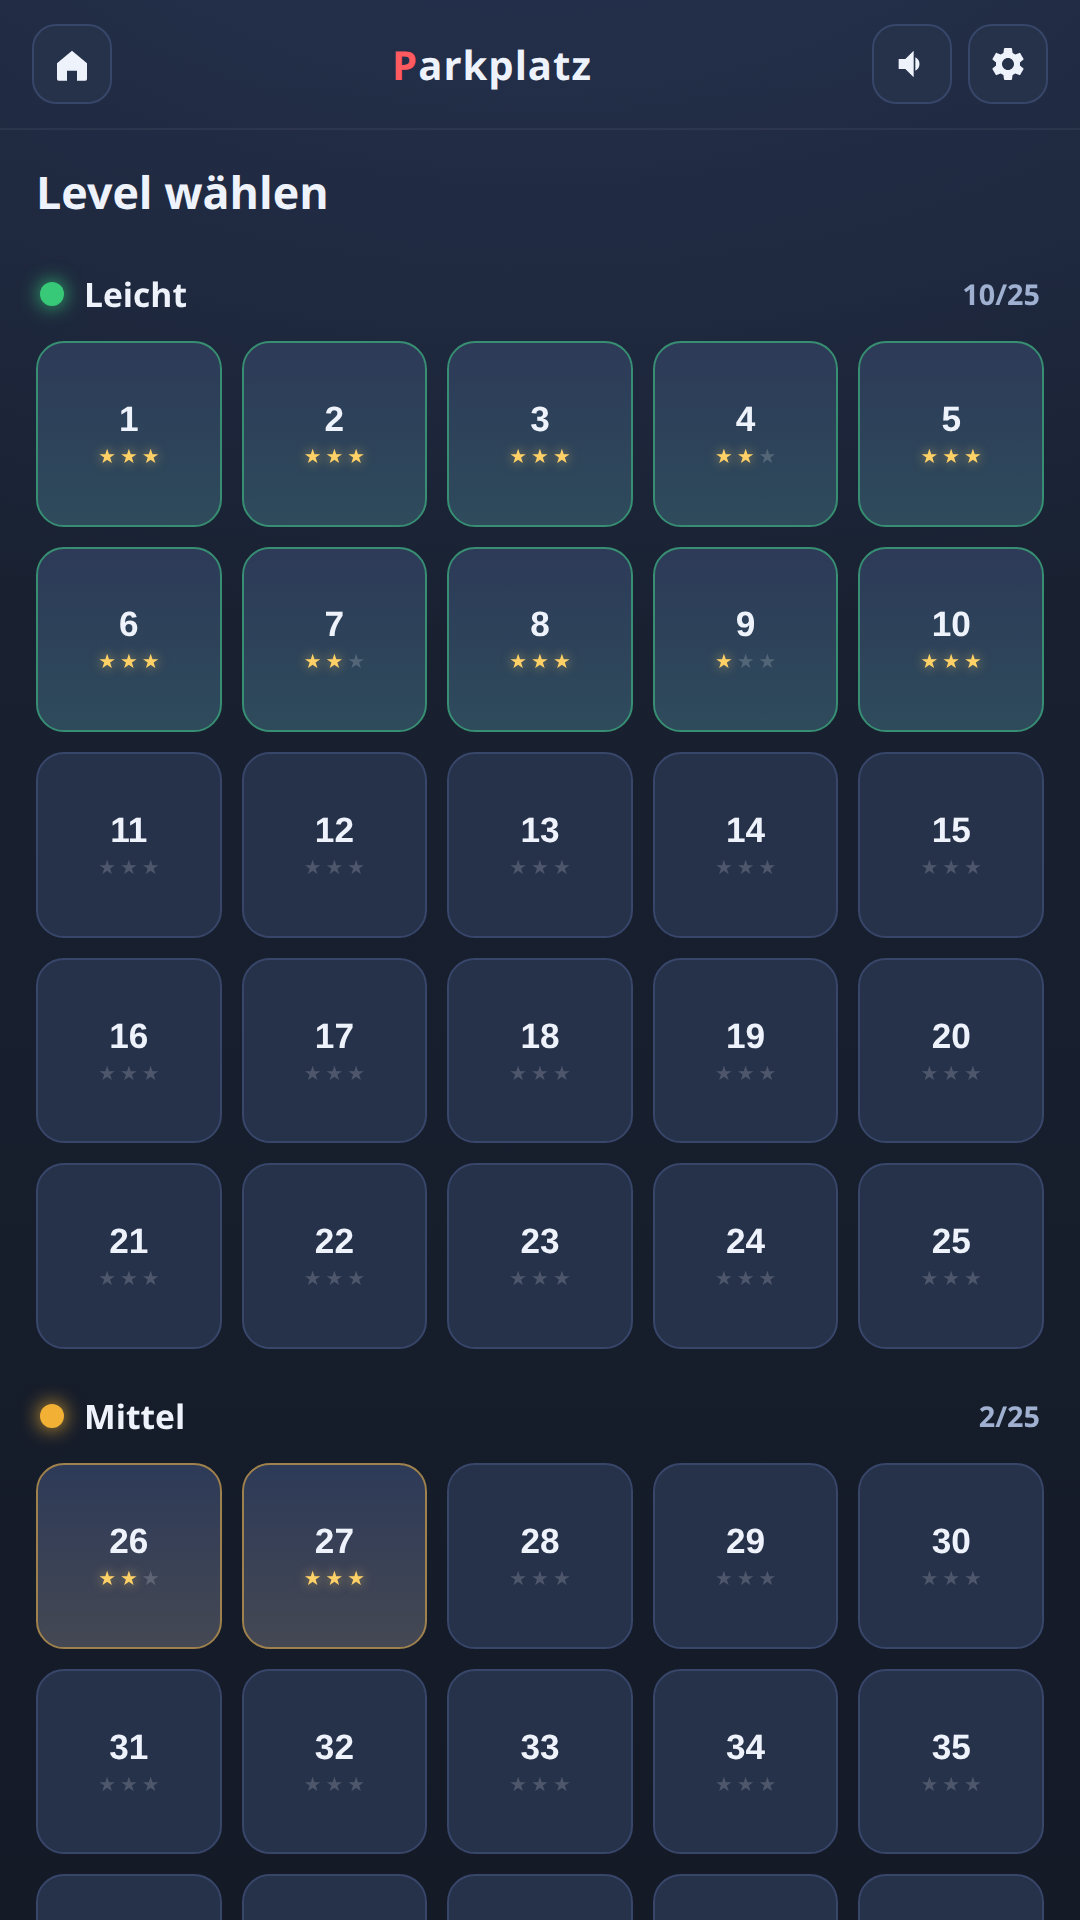
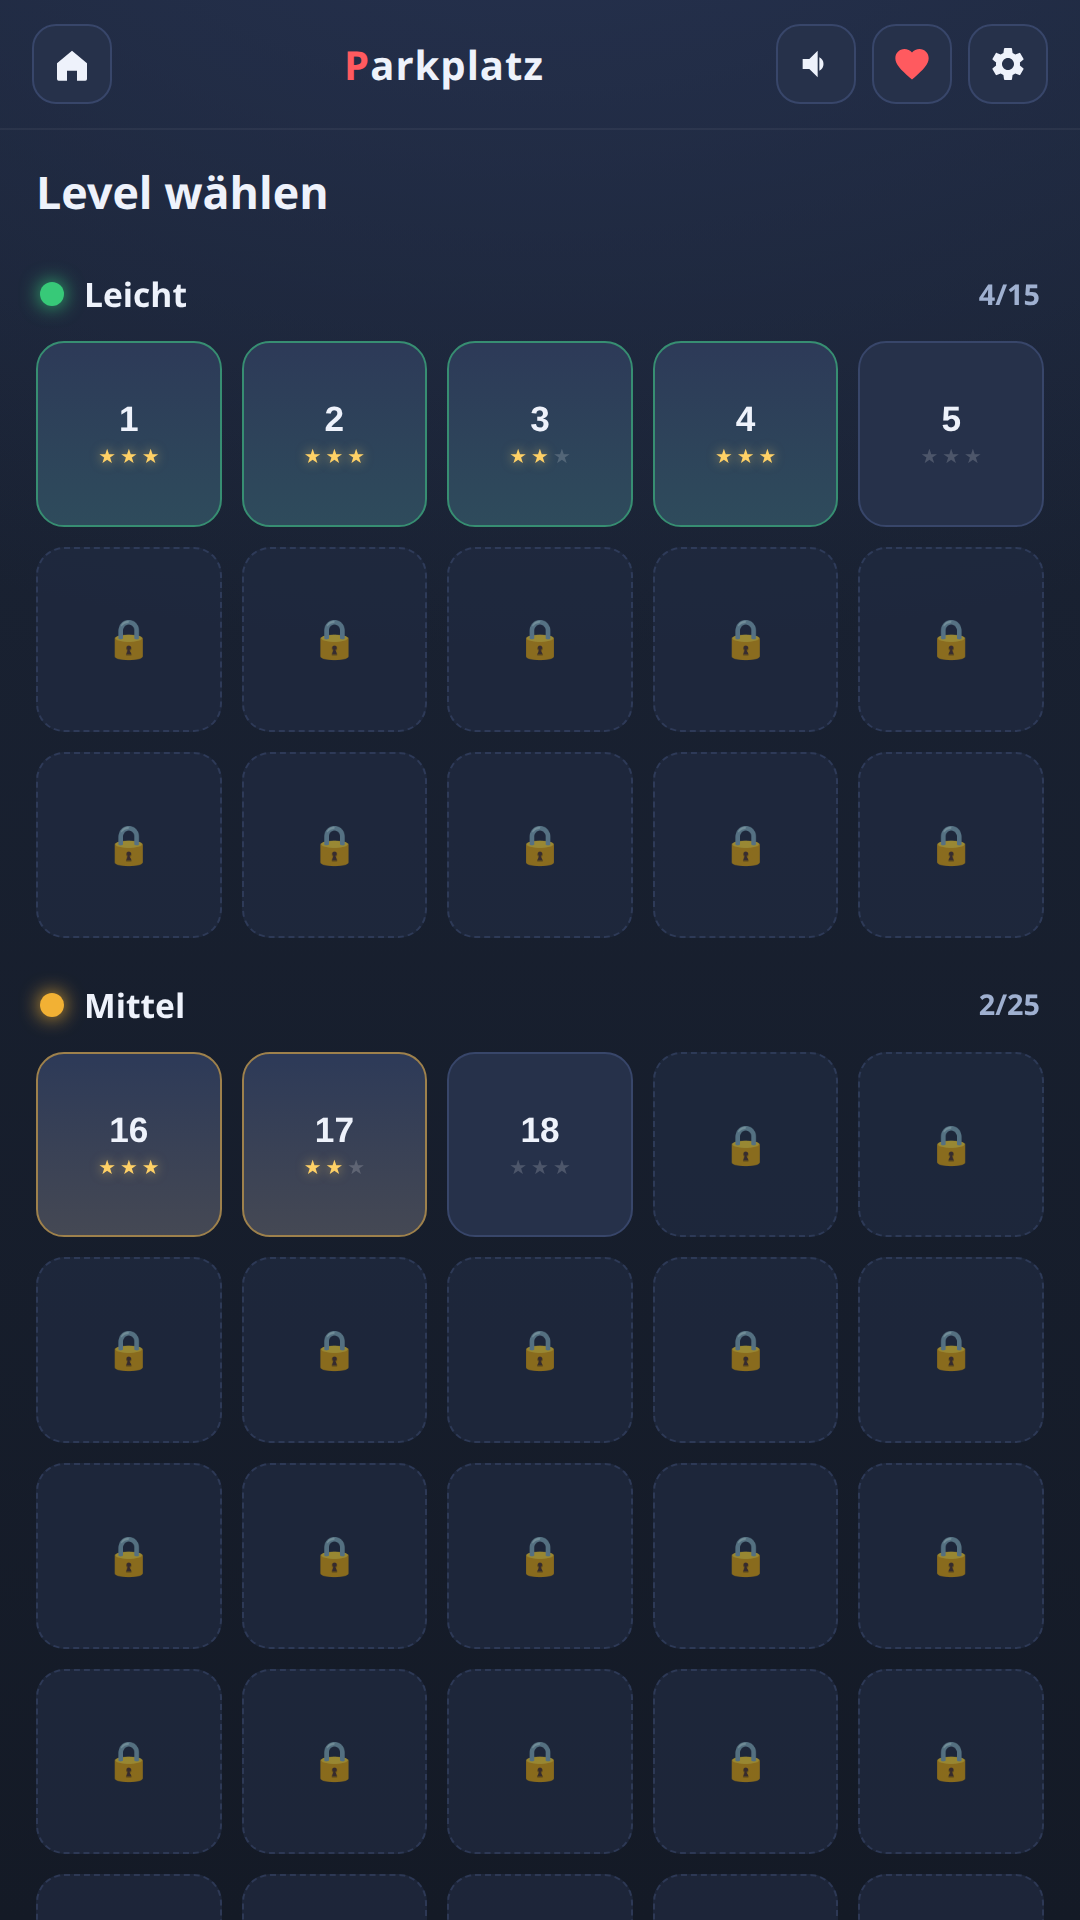
Store: reflect 5 tiers (Extreme) in listings + level-select screenshots

diff --git a/store/listing-de.md b/store/listing-de.md
@@ -13,13 +13,13 @@ von „Rush Hour": Der Parkplatz ist zugeparkt und dein rotes Auto muss raus!
 Verschiebe Autos, Busse, LKWs und Motorräder geschickt zur Seite, bis der Weg
 zur Ausfahrt frei ist.
 
-100 handgeprüfte Level in vier Schwierigkeitsstufen – von leicht bis sehr
+100 handgeprüfte Level in fünf Schwierigkeitsstufen – von leicht bis extrem
 schwer, aber keines davon langweilig. Für jedes Level ist die minimale Zugzahl
 bekannt: Schaffst du es mit den wenigsten Zügen, gibt es drei Sterne!
 
 ★ FUNKTIONEN
 • 100 einzigartige, garantiert lösbare Rätsel
-• Vier Schwierigkeitsstufen mit sanft steigender Herausforderung
+• Fünf Schwierigkeitsstufen (bis „Extrem“) mit sanft steigender Herausforderung
 • 3-Sterne-Bewertung – hol dir das perfekte Ergebnis
 • Level-Editor: Baue eigene Rätsel mit Live-Lösbarkeitsprüfung
 • Tägliches Rätsel – jeden Tag ein neues, für alle gleich

diff --git a/store/listing-en.md b/store/listing-en.md
@@ -13,13 +13,13 @@ Parkplatz is a relaxing yet brain-teasing sliding-block puzzle in the spirit of
 cars, buses, trucks and motorcycles out of the way until the path to the exit is
 clear.
 
-100 hand-verified levels across four difficulty tiers – from easy to very hard,
+100 hand-verified levels across five difficulty tiers – from easy to extreme,
 and never dull. Every level's minimum number of moves is known: match it and you
 earn all three stars!
 
 ★ FEATURES
 • 100 unique, guaranteed-solvable puzzles
-• Four difficulty tiers with a smoothly rising challenge
+• Five difficulty tiers (up to “Extreme”) with a smoothly rising challenge
 • 3-star rating – go for the perfect run
 • Level editor: build your own puzzles with a live solvability check
 • Daily puzzle – a fresh one every day, the same for everyone
